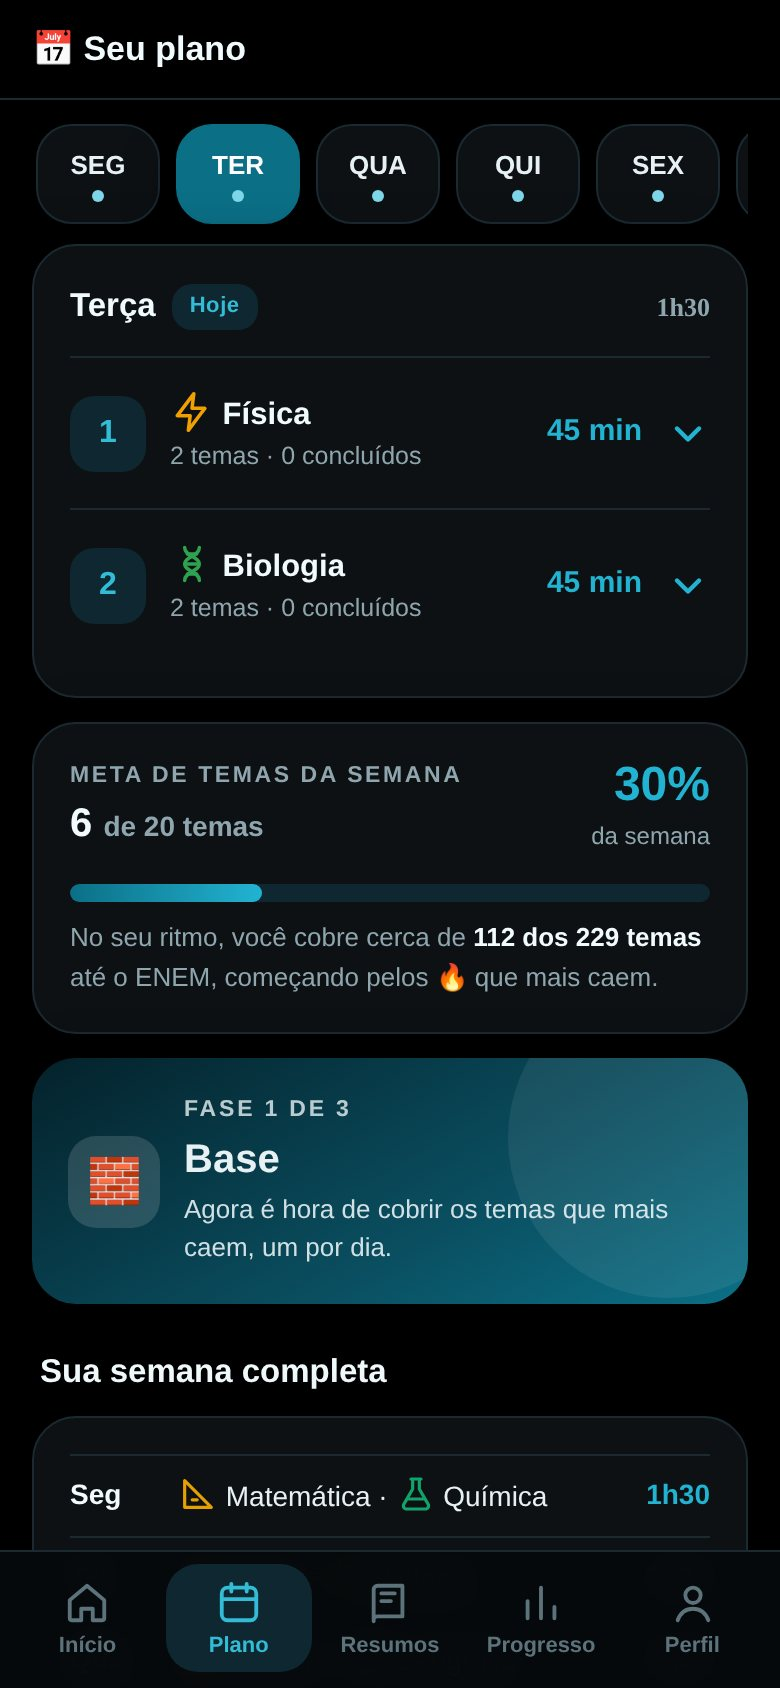
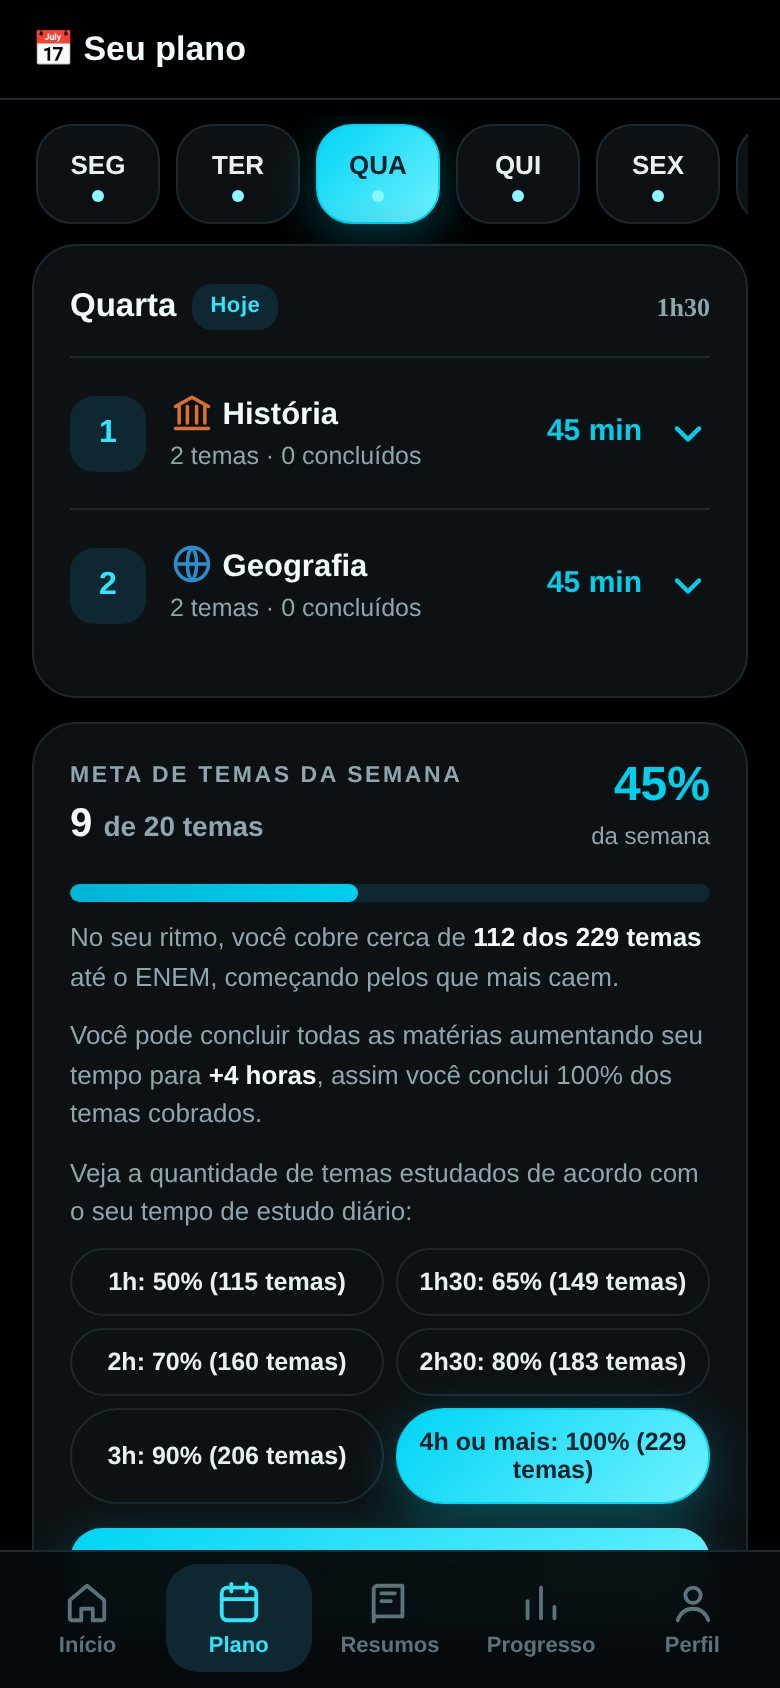
Prints do app no quiz atualizados (cores novas e bloco de tempo por dia)
Claude-Session: https://claude.ai/code/session_016oanMoqSLwB8wD9WTYZ31H

diff --git a/materias/index.html b/materias/index.html
@@ -549,7 +549,7 @@ function telaPlano(){
     ${(()=>{ const ms=metaSemana(); return `<div class="card"><div class="meta-topo"><div><div class="k">Meta de temas da semana</div><div class="v">${ms.feitos} <small>de ${ms.meta} temas</small></div></div><div class="pct"><b>${Math.min(100,Math.round(ms.feitos/ms.meta*100))}%</b><span>da semana</span></div></div><div class="barra"><i style="width:${Math.min(100,ms.feitos/ms.meta*100)}%"></i></div><div class="nota">No seu ritmo, você cobre cerca de <b>${ms.cobertos} dos ${totalTemas} temas</b> até o ENEM, começando pelos que mais caem.</div>
       <div class="nota" style="margin-top:10px;">Você pode concluir todas as matérias aumentando seu tempo para <b>+4 horas</b>, assim você conclui 100% dos temas cobrados.</div>
       <div class="nota" style="margin-top:10px;">Veja a quantidade de temas estudados de acordo com o seu tempo de estudo diário:</div>
-      <div class="chips" style="margin-top:8px;pointer-events:none;">${[[60,50],[90,65],[120,70],[150,80],[180,90],[240,100]].map(([m,pc])=>`<button class="${m===240?'on':''}">${fmtMin(m)}${m===240?' ou mais':''}: ${pc}% (${Math.round(totalTemas*pc/100)} temas)</button>`).join('')}</div>
+      <div class="chips" style="margin-top:8px;pointer-events:none;display:grid;grid-template-columns:1fr 1fr;gap:6px;">${[[60,50],[90,65],[120,70],[150,80],[180,90],[240,100]].map(([m,pc])=>`<button style="padding:9px 6px;font-size:12.5px;text-align:center;" class="${m===240?'on':''}">${fmtMin(m)}${m===240?' ou mais':''}: ${pc}% (${Math.round(totalTemas*pc/100)} temas)</button>`).join('')}</div>
       <button class="btn" style="margin-top:12px;" onclick="irAjustar()">Ajustar meu Plano</button></div>`; })()}
     <div class="card hero"><div class="fase"><span class="ic">${f.ic}</span><div><div class="k">Fase ${f.n} de 3</div><div class="grande" style="font-size:20px;">${f.nome}</div><p style="font-size:13px;">${f.txt}</p></div></div></div>
     <div class="secao">Sua semana completa</div>
